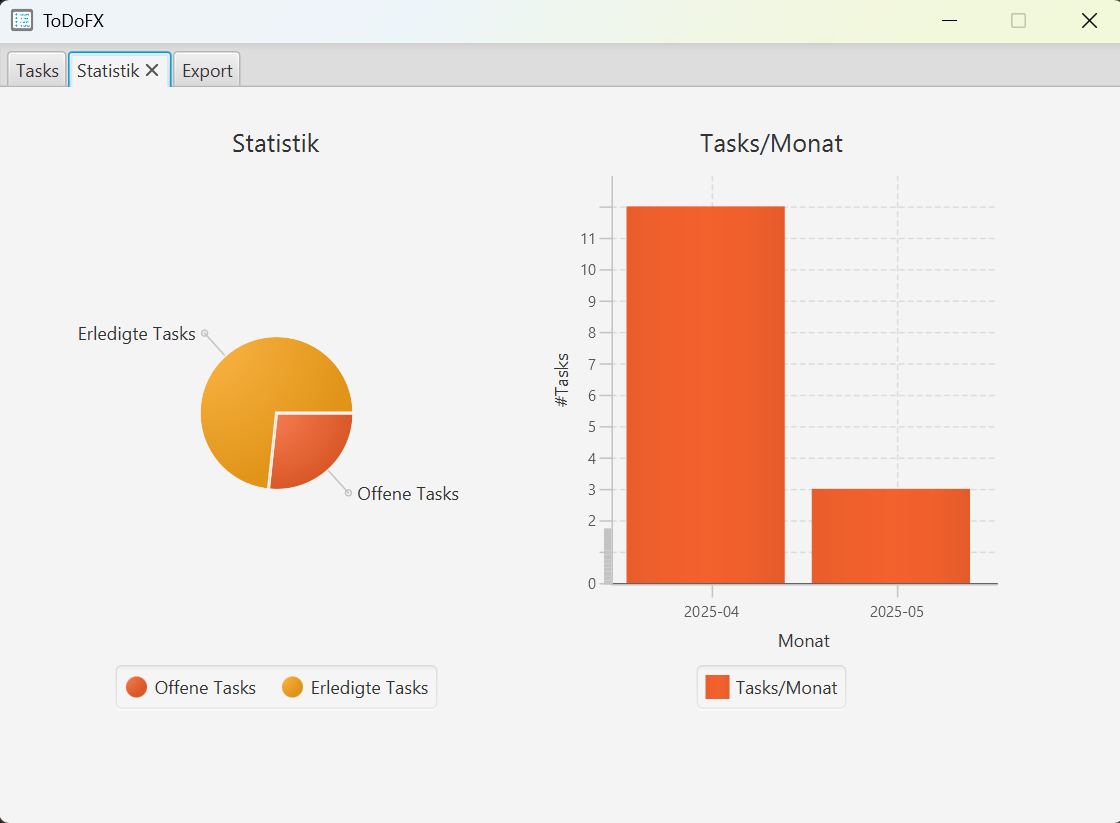
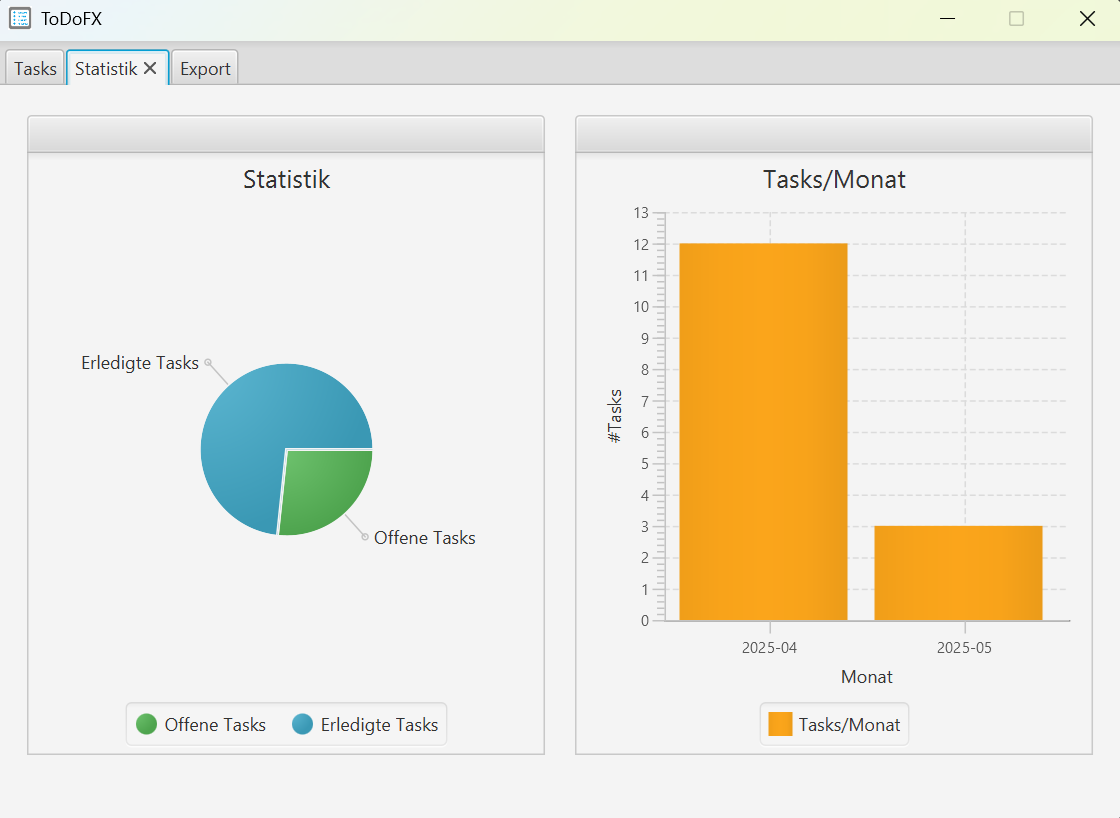
UI improvements

diff --git a/src/main/kotlin/com/github/ursteiner/todofx/controller/TasksTabController.kt b/src/main/kotlin/com/github/ursteiner/todofx/controller/TasksTabController.kt
@@ -12,11 +12,11 @@ import javafx.scene.control.Alert
 import javafx.scene.control.Button
 import javafx.scene.control.ButtonType
 import javafx.scene.control.CheckBox
-import javafx.scene.control.Label
 import javafx.scene.control.TableColumn
 import javafx.scene.control.TableView
 import javafx.scene.control.TextArea
 import javafx.scene.control.TextField
+import javafx.scene.control.TitledPane
 import java.net.URL
 import java.time.LocalDateTime
 import java.time.format.DateTimeFormatter
@@ -66,10 +66,10 @@ class TasksTabController : Initializable {
     private lateinit var doneColumn: TableColumn<String, String>
 
     @FXML
-    private lateinit var editTaskLabel: Label
+    private lateinit var editTaskPane: TitledPane
 
     @FXML
-    private lateinit var newTaskLabel: Label
+    private lateinit var newTaskPane: TitledPane
 
     private val dateTimeFormat = DateTimeFormatter.ofPattern("yyyy-MM-dd HH:mm")
     private lateinit var databaseService : DatabaseServiceImpl
@@ -88,8 +88,8 @@ class TasksTabController : Initializable {
     fun initializeFieldNames(){
         hideDoneTasksCheckBox.text = getTranslation(TranslationKeys.HIDE_DONE_TASKS)
 
-        editTaskLabel.text = getTranslation(TranslationKeys.EDIT_TASK_DESCRIPTION)
-        newTaskLabel.text = getTranslation(TranslationKeys.NEW_TASK_DESCRIPTION)
+        editTaskPane.text = getTranslation(TranslationKeys.EDIT_TASK_DESCRIPTION)
+        newTaskPane.text = getTranslation(TranslationKeys.NEW_TASK_DESCRIPTION)
 
         addTaskButton.text = getTranslation(TranslationKeys.ADD_TASK)
         resolveTaskButton.text = getTranslation(TranslationKeys.RESOLVE_TASK)
@@ -206,7 +206,7 @@ class TasksTabController : Initializable {
     private fun setVisibilityUpdateTask(isVisible: Boolean){
         taskUpdateArea.isVisible = isVisible
         updateTaskButton.isVisible = isVisible
-        editTaskLabel.isVisible = isVisible
+        editTaskPane.isVisible = isVisible
     }
 
     @FXML

diff --git a/src/main/kotlin/com/github/ursteiner/todofx/controller/ExportTabController.kt b/src/main/kotlin/com/github/ursteiner/todofx/controller/ExportTabController.kt
@@ -7,6 +7,7 @@ import com.github.ursteiner.todofx.service.LanguageServiceImpl
 import javafx.fxml.FXML
 import javafx.fxml.Initializable
 import javafx.scene.control.Label
+import javafx.scene.control.TitledPane
 import javafx.stage.FileChooser
 import java.net.URL
 import java.util.*
@@ -15,13 +16,13 @@ import java.util.*
 class ExportTabController: Initializable {
 
     @FXML
-    private lateinit var exportLabel: Label
+    private lateinit var exportPane: TitledPane
 
     private lateinit var languageService : LanguageServiceImpl
 
     override fun initialize(p0: URL?, p1: ResourceBundle?) {
         languageService = LanguageServiceImpl.getInstance(System.getProperty("user.language"))
-        exportLabel.text = languageService.getTranslationForKey(TranslationKeys.EXPORT_CAN_BE_STORED_ANYWHERE)
+        exportPane.text = languageService.getTranslationForKey(TranslationKeys.EXPORT_CAN_BE_STORED_ANYWHERE)
     }
 
     @FXML
@@ -30,7 +31,7 @@ class ExportTabController: Initializable {
         fileChooser.title = "Save"
         fileChooser.initialFileName = "tasks.csv"
 
-        when(val file = fileChooser.showSaveDialog(exportLabel.scene.window)){
+        when(val file = fileChooser.showSaveDialog(exportPane.scene.window)){
             null -> println("CSV export: no file selected")
             else -> CsvExportServiceImpl(file).exportTasks(DatabaseServiceImpl.getInstance().getTasks())
         }

diff --git a/src/main/kotlin/com/github/ursteiner/todofx/service/DatabaseServiceImpl.kt b/src/main/kotlin/com/github/ursteiner/todofx/service/DatabaseServiceImpl.kt
@@ -4,7 +4,6 @@ import com.github.ursteiner.todofx.model.Task
 import org.jetbrains.exposed.sql.*
 import org.jetbrains.exposed.sql.SqlExpressionBuilder.eq
 import org.jetbrains.exposed.sql.transactions.transaction
-import java.sql.DriverManager.println
 import java.text.SimpleDateFormat
 import java.util.Calendar
 import java.util.Date
